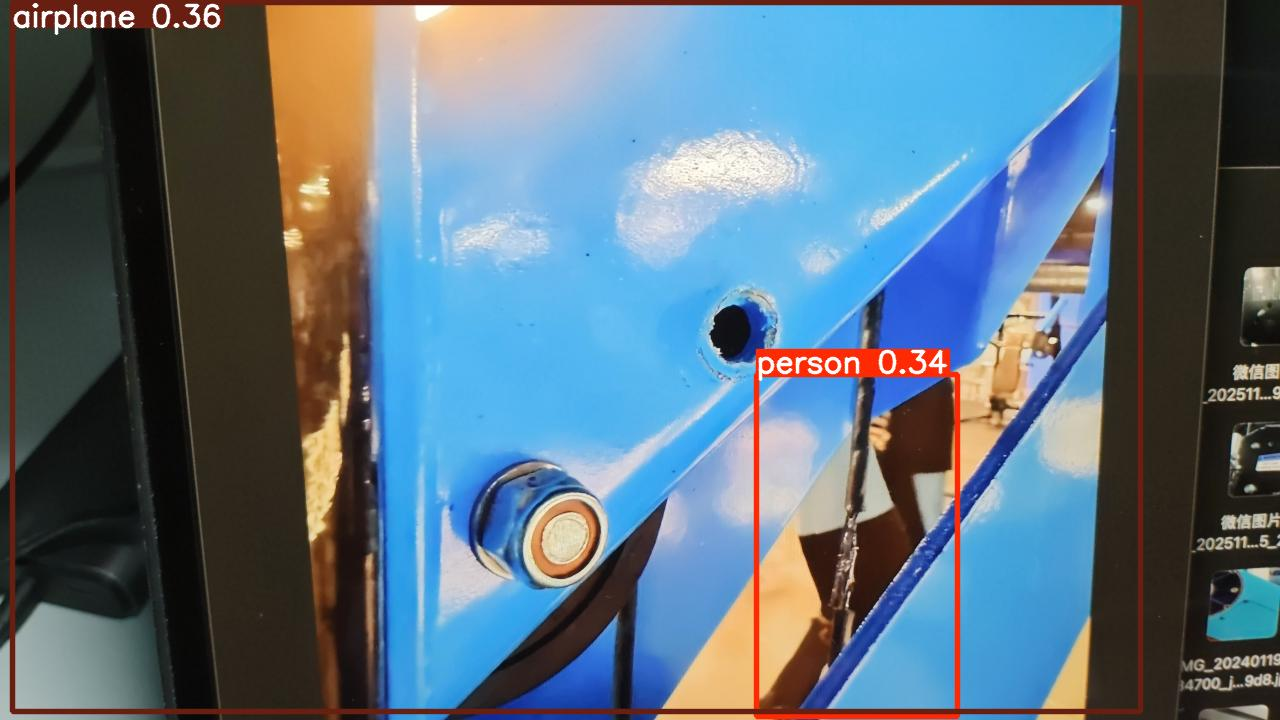
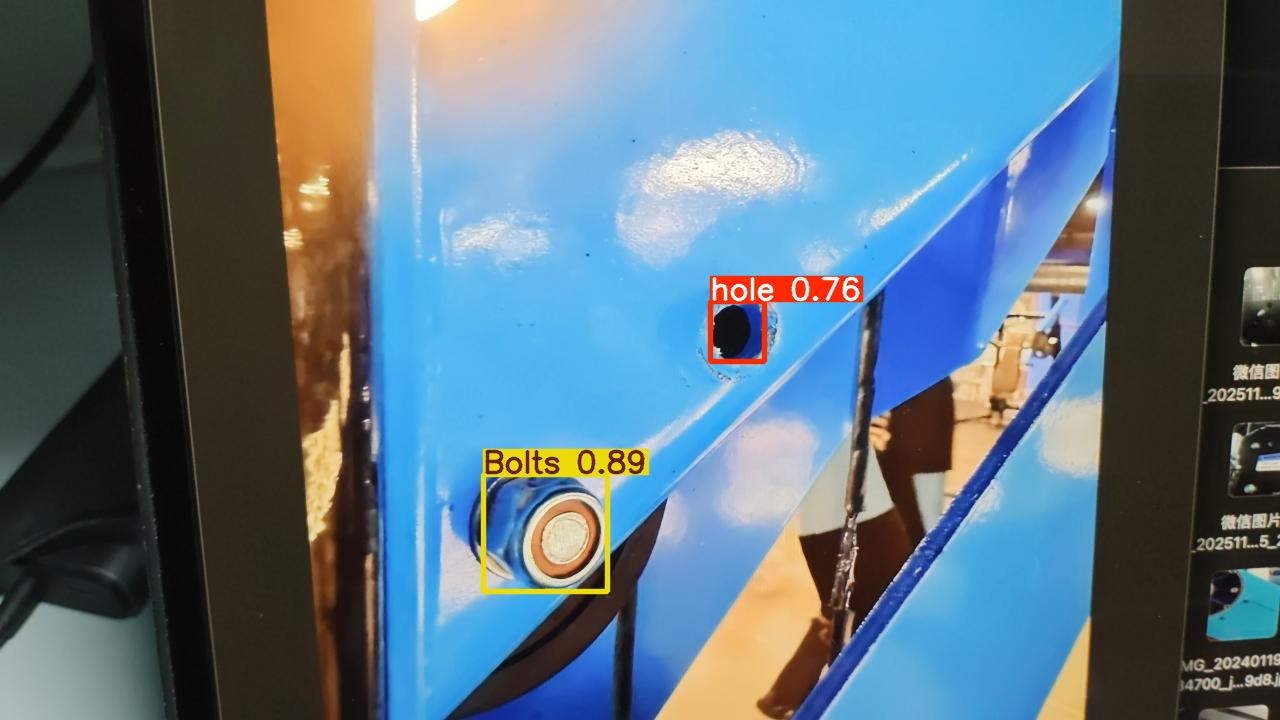
fix(检测逻辑): 修改缺陷判断规则为检查hole和Bolts
将原有的基于person的缺陷判断逻辑改为检查是否存在hole或非全部Bolts的情况
当检测到hole时标记为hole类型缺陷，无目标时标记为no_object

Changed region(s): [[0.0, 0.0, 0.9062, 1.0], [0.375, 0.6111, 0.5312, 0.825]]

diff --git a/internal/services/detect_job.go b/internal/services/detect_job.go
@@ -359,43 +359,57 @@ func StartSceneDetect(sceneID primitive.ObjectID, cfg DetectConfig) (string, err
 					processedPath = utils.NormalizeUploadsLocalPath(dr.LabeledPath)
 					processedFilename = filepath.Base(processedPath)
 				}
-                sumDet := models.DetectionSummary{HasIssue: hasNonPerson(items), IssueType: "auto", ObjectCount: len(items), AvgScore: avgConfidence(items)}
-                if len(items) == 0 { sumDet.IssueType = "no_object" }
-                // 若服务未返回 items，但存在处理后图片，则尝试解析同名标签生成 items
-                if len(items) == 0 && strings.TrimSpace(processedPath) != "" {
-                    dir := filepath.Dir(processedPath)
-                    base := strings.TrimSuffix(filepath.Base(processedPath), filepath.Ext(processedPath))
-                    labelPathPrimary := filepath.Join(dir, base+".txt")
-                    labelAbs := utils.NormalizeUploadsLocalPath(labelPathPrimary)
-                    if _, err := os.Stat(labelAbs); os.IsNotExist(err) {
-                        labelAbs = utils.NormalizeUploadsLocalPath(filepath.Join(dir, "labels", base+".txt"))
-                    }
-                    if parsed, err := utils.ParseYOLOLabelsToItems(labelAbs, utils.NormalizeUploadsLocalPath(sourcePath)); err == nil && len(parsed) > 0 {
-                        items = parsed
-                        sumDet = models.DetectionSummary{HasIssue: hasNonPerson(items), IssueType: "auto", ObjectCount: len(items), AvgScore: avgConfidence(items)}
-                        if len(items) == 0 { sumDet.IssueType = "no_object" }
-                    }
-                }
+				hasIssue := (len(items) == 0) || hasHole(items) || !allBolts(items)
+				issueType := "auto"
+				if len(items) == 0 {
+					issueType = "no_object"
+				}
+				if hasHole(items) {
+					issueType = "hole"
+				}
+				sumDet := models.DetectionSummary{HasIssue: hasIssue, IssueType: issueType, ObjectCount: len(items), AvgScore: avgConfidence(items)}
+				// 若服务未返回 items，但存在处理后图片，则尝试解析同名标签生成 items
+				if len(items) == 0 && strings.TrimSpace(processedPath) != "" {
+					dir := filepath.Dir(processedPath)
+					base := strings.TrimSuffix(filepath.Base(processedPath), filepath.Ext(processedPath))
+					labelPathPrimary := filepath.Join(dir, base+".txt")
+					labelAbs := utils.NormalizeUploadsLocalPath(labelPathPrimary)
+					if _, err := os.Stat(labelAbs); os.IsNotExist(err) {
+						labelAbs = utils.NormalizeUploadsLocalPath(filepath.Join(dir, "labels", base+".txt"))
+					}
+					if parsed, err := utils.ParseYOLOLabelsToItems(labelAbs, utils.NormalizeUploadsLocalPath(sourcePath)); err == nil {
+						items = parsed
+						hi := (len(items) == 0) || hasHole(items) || !allBolts(items)
+						itp := "auto"
+						if len(items) == 0 {
+							itp = "no_object"
+						}
+						if hasHole(items) {
+							itp = "hole"
+						}
+						sumDet = models.DetectionSummary{HasIssue: hi, IssueType: itp, ObjectCount: len(items), AvgScore: avgConfidence(items)}
+					}
+				}
 
-                run := &models.DetectionRun{
-                    RunID:               jobID + ":" + im.Filename,
-                    ImageID:             im.ID,
-                    SceneID:             sceneID,
-                    SourceFilename:      im.Filename,
-                    SourcePath:          sourcePath,
-                    ProcessedFilename:   processedFilename,
-                    ProcessedPath:       processedPath,
-                    ModelName:           cfg.ModelName,
-                    ModelVersion:        cfg.ModelVersion,
-                    Device:              cfg.Device,
-                    IoUThreshold:        cfg.IoU,
-                    ConfidenceThreshold: cfg.Conf,
-                    InferenceTimeMs:     time.Since(start).Milliseconds(),
-                    Items:               items,
-                    Summary:             sumDet,
-                    CreatedAt:           time.Now(),
-                    UpdatedAt:           time.Now(),
-                }
+				run := &models.DetectionRun{
+					RunID:               jobID + ":" + im.Filename,
+					ImageID:             im.ID,
+					SceneID:             sceneID,
+					SourceFilename:      im.Filename,
+					SourcePath:          sourcePath,
+					ProcessedFilename:   processedFilename,
+					ProcessedPath:       processedPath,
+					ModelName:           cfg.ModelName,
+					ModelVersion:        cfg.ModelVersion,
+					Device:              cfg.Device,
+					IoUThreshold:        cfg.IoU,
+					ConfidenceThreshold: cfg.Conf,
+					InferenceTimeMs:     time.Since(start).Milliseconds(),
+					Items:               items,
+					Summary:             sumDet,
+					CreatedAt:           time.Now(),
+					UpdatedAt:           time.Now(),
+				}
 				if _, err := models.InsertDetectionRun(run); err != nil {
 					job.Message = fmt.Sprintf("写库失败 %s: %v", e.Name(), err)
 					GetJobManager().SetJob(job)
@@ -554,13 +568,16 @@ func StartSceneDetect(sceneID primitive.ObjectID, cfg DetectConfig) (string, err
 			}
 
 			// 汇总（简单示例：有任意目标视为存在问题）
-			summary := models.DetectionSummary{
-				HasIssue:    hasNonPerson(items),
-				IssueType:   "auto",
-				ObjectCount: len(items),
-				AvgScore:    avgConfidence(items),
+			// 规则：仅全部为 Bolts 才合格；只要有 hole 或无目标则缺陷；其它类别也视为缺陷
+			hasIssue := (len(items) == 0) || hasHole(items) || !allBolts(items)
+			issueType := "auto"
+			if len(items) == 0 {
+				issueType = "no_object"
 			}
-			if len(items) == 0 { summary.IssueType = "no_object" }
+			if hasHole(items) {
+				issueType = "hole"
+			}
+			summary := models.DetectionSummary{HasIssue: hasIssue, IssueType: issueType, ObjectCount: len(items), AvgScore: avgConfidence(items)}
 
 			run := &models.DetectionRun{
 				RunID:               jobID + ":" + im.Filename,
@@ -612,30 +629,43 @@ func shortOut(s string) string {
 }
 
 func avgConfidence(items []models.DetectionItem) float64 {
-    if len(items) == 0 {
-        return 0
-    }
-    sum := 0.0
-    for _, it := range items {
-        sum += it.Confidence
-    }
-    return sum / float64(len(items))
+	if len(items) == 0 {
+		return 0
+	}
+	sum := 0.0
+	for _, it := range items {
+		sum += it.Confidence
+	}
+	return sum / float64(len(items))
 }
 
-func isPerson(it models.DetectionItem) bool {
-    return strings.EqualFold(it.Class, "person")
+func isBolts(it models.DetectionItem) bool {
+	return strings.EqualFold(it.Class, "Bolts")
 }
 
-func hasNonPerson(items []models.DetectionItem) bool {
-    if len(items) == 0 {
-        return true
-    }
-    for _, it := range items {
-        if !isPerson(it) {
-            return true
-        }
-    }
-    return false
+func isHole(it models.DetectionItem) bool {
+	return strings.EqualFold(it.Class, "hole")
+}
+
+func allBolts(items []models.DetectionItem) bool {
+	if len(items) == 0 {
+		return false
+	}
+	for _, it := range items {
+		if !isBolts(it) {
+			return false
+		}
+	}
+	return true
+}
+
+func hasHole(items []models.DetectionItem) bool {
+	for _, it := range items {
+		if isHole(it) {
+			return true
+		}
+	}
+	return false
 }
 
 // StartImageDetect 启动单张图片的推理任务（异步）
@@ -751,15 +781,19 @@ func StartImageDetect(imageID primitive.ObjectID, cfg DetectConfig) (string, err
 				return
 			}
 
-            items := make([]models.DetectionItem, 0, len(dr.Items))
-            for _, it := range dr.Items {
-                items = append(items, models.DetectionItem{Class: it.Class_, ClassID: it.ClassId, Confidence: it.Confidence, BBox: models.BoundingBox{X: it.Bbox.X, Y: it.Bbox.Y, Width: it.Bbox.Width, Height: it.Bbox.Height}})
-            }
-            summary := models.DetectionSummary{HasIssue: hasNonPerson(items), IssueType: "auto", ObjectCount: len(items), AvgScore: avgConfidence(items)}
-            if len(items) == 0 { summary.IssueType = "no_object" }
-            if summary.IssueType == "" && summary.ObjectCount == 0 && summary.AvgScore == 0 && len(items) > 0 {
-                summary = models.DetectionSummary{HasIssue: hasNonPerson(items), IssueType: "auto", ObjectCount: len(items), AvgScore: avgConfidence(items)}
-            }
+			items := make([]models.DetectionItem, 0, len(dr.Items))
+			for _, it := range dr.Items {
+				items = append(items, models.DetectionItem{Class: it.Class_, ClassID: it.ClassId, Confidence: it.Confidence, BBox: models.BoundingBox{X: it.Bbox.X, Y: it.Bbox.Y, Width: it.Bbox.Width, Height: it.Bbox.Height}})
+			}
+			hasIssue := (len(items) == 0) || hasHole(items) || !allBolts(items)
+			issueType := "auto"
+			if len(items) == 0 {
+				issueType = "no_object"
+			}
+			if hasHole(items) {
+				issueType = "hole"
+			}
+			summary := models.DetectionSummary{HasIssue: hasIssue, IssueType: issueType, ObjectCount: len(items), AvgScore: avgConfidence(items)}
 
 			processedPath := sourcePath
 			processedFilename := im.Filename
@@ -767,23 +801,30 @@ func StartImageDetect(imageID primitive.ObjectID, cfg DetectConfig) (string, err
 				processedPath = utils.NormalizeUploadsLocalPath(dr.LabeledPath)
 				processedFilename = filepath.Base(processedPath)
 			}
-            // 若服务未返回 items，但存在处理后图片，则尝试解析同名标签生成 items
-            if len(items) == 0 && strings.TrimSpace(processedPath) != "" {
-                dir := filepath.Dir(processedPath)
-                base := strings.TrimSuffix(filepath.Base(processedPath), filepath.Ext(processedPath))
-                labelPathPrimary := filepath.Join(dir, base+".txt")
-                labelAbs := utils.NormalizeUploadsLocalPath(labelPathPrimary)
-                if _, err := os.Stat(labelAbs); os.IsNotExist(err) {
-                    labelAbs = utils.NormalizeUploadsLocalPath(filepath.Join(dir, "labels", base+".txt"))
-                }
-                if parsed, err := utils.ParseYOLOLabelsToItems(labelAbs, utils.NormalizeUploadsLocalPath(sourcePath)); err == nil && len(parsed) > 0 {
-                    items = parsed
-                summary = models.DetectionSummary{HasIssue: hasNonPerson(items), IssueType: "auto", ObjectCount: len(items), AvgScore: avgConfidence(items)}
-                if len(items) == 0 { summary.IssueType = "no_object" }
-                }
-            }
+			// 若服务未返回 items，但存在处理后图片，则尝试解析同名标签生成 items
+			if len(items) == 0 && strings.TrimSpace(processedPath) != "" {
+				dir := filepath.Dir(processedPath)
+				base := strings.TrimSuffix(filepath.Base(processedPath), filepath.Ext(processedPath))
+				labelPathPrimary := filepath.Join(dir, base+".txt")
+				labelAbs := utils.NormalizeUploadsLocalPath(labelPathPrimary)
+				if _, err := os.Stat(labelAbs); os.IsNotExist(err) {
+					labelAbs = utils.NormalizeUploadsLocalPath(filepath.Join(dir, "labels", base+".txt"))
+				}
+				if parsed, err := utils.ParseYOLOLabelsToItems(labelAbs, utils.NormalizeUploadsLocalPath(sourcePath)); err == nil {
+					items = parsed
+					hi := (len(items) == 0) || hasHole(items) || !allBolts(items)
+					itp := "auto"
+					if len(items) == 0 {
+						itp = "no_object"
+					}
+					if hasHole(items) {
+						itp = "hole"
+					}
+					summary = models.DetectionSummary{HasIssue: hi, IssueType: itp, ObjectCount: len(items), AvgScore: avgConfidence(items)}
+				}
+			}
 
-            run := &models.DetectionRun{RunID: jobID + ":" + im.Filename, ImageID: im.ID, SceneID: im.SceneID, SourceFilename: im.Filename, SourcePath: sourcePath, ProcessedFilename: processedFilename, ProcessedPath: processedPath, ModelName: cfg.ModelName, ModelVersion: cfg.ModelVersion, Device: cfg.Device, IoUThreshold: cfg.IoU, ConfidenceThreshold: cfg.Conf, InferenceTimeMs: time.Since(start).Milliseconds(), Items: items, Summary: summary, CreatedAt: time.Now(), UpdatedAt: time.Now()}
+			run := &models.DetectionRun{RunID: jobID + ":" + im.Filename, ImageID: im.ID, SceneID: im.SceneID, SourceFilename: im.Filename, SourcePath: sourcePath, ProcessedFilename: processedFilename, ProcessedPath: processedPath, ModelName: cfg.ModelName, ModelVersion: cfg.ModelVersion, Device: cfg.Device, IoUThreshold: cfg.IoU, ConfidenceThreshold: cfg.Conf, InferenceTimeMs: time.Since(start).Milliseconds(), Items: items, Summary: summary, CreatedAt: time.Now(), UpdatedAt: time.Now()}
 			if _, err := models.InsertDetectionRun(run); err != nil {
 				job.Status = "failed"
 				job.Error = fmt.Sprintf("写库失败: %v", err)
@@ -873,13 +914,15 @@ func StartImageDetect(imageID primitive.ObjectID, cfg DetectConfig) (string, err
 			return
 		}
 
-		summary := models.DetectionSummary{
-			HasIssue:    hasNonPerson(items),
-			IssueType:   "auto",
-			ObjectCount: len(items),
-			AvgScore:    avgConfidence(items),
+		hasIssue := (len(items) == 0) || hasHole(items) || !allBolts(items)
+		issueType := "auto"
+		if len(items) == 0 {
+			issueType = "no_object"
 		}
-		if len(items) == 0 { summary.IssueType = "no_object" }
+		if hasHole(items) {
+			issueType = "hole"
+		}
+		summary := models.DetectionSummary{HasIssue: hasIssue, IssueType: issueType, ObjectCount: len(items), AvgScore: avgConfidence(items)}
 
 		run := &models.DetectionRun{
 			RunID:               jobID + ":" + im.Filename,

diff --git a/internal/handlers/detections.go b/internal/handlers/detections.go
@@ -177,20 +177,19 @@ func CreateImageDetection(c *gin.Context) {
     // 兜底生成 Summary（当请求未提供或为空且 items 非空时）
     if req.Summary.IssueType == "" && req.Summary.ObjectCount == 0 && req.Summary.AvgScore == 0 {
         sum := 0.0
-        hasNonPerson := false
+        hasHole := false
+        allBolts := len(req.Items) > 0
         for _, it := range req.Items {
             sum += it.Confidence
-            if !strings.EqualFold(it.Class, "person") {
-                hasNonPerson = true
-            }
+            if strings.EqualFold(it.Class, "hole") { hasHole = true }
+            if !strings.EqualFold(it.Class, "Bolts") { allBolts = false }
         }
         avg := 0.0
-        if len(req.Items) > 0 {
-            avg = sum / float64(len(req.Items))
-        }
-        hi := (len(req.Items) == 0) || hasNonPerson
+        if len(req.Items) > 0 { avg = sum / float64(len(req.Items)) }
+        hi := (len(req.Items) == 0) || hasHole || !allBolts
         itype := "auto"
         if len(req.Items) == 0 { itype = "no_object" }
+        if hasHole { itype = "hole" }
         req.Summary = models.DetectionSummary{HasIssue: hi, IssueType: itype, ObjectCount: len(req.Items), AvgScore: avg}
     }
 
